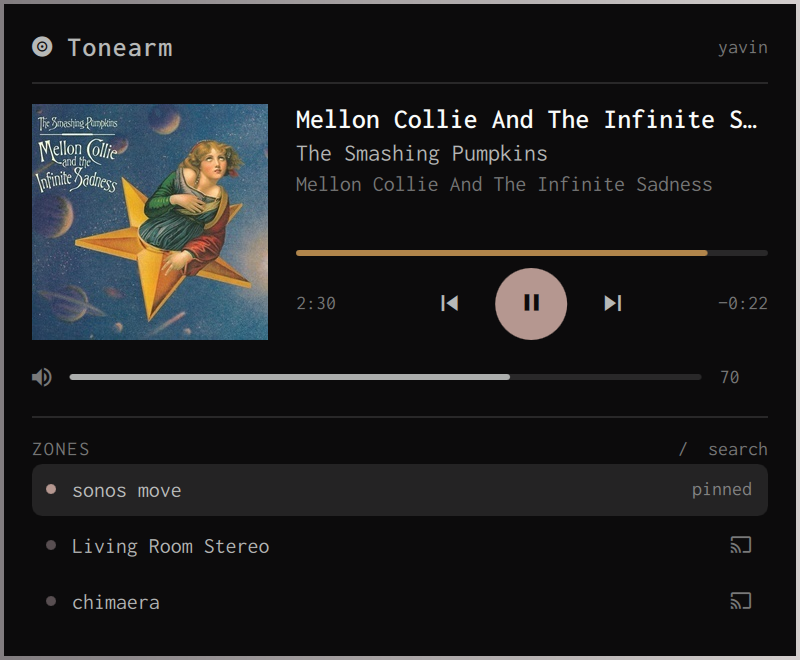
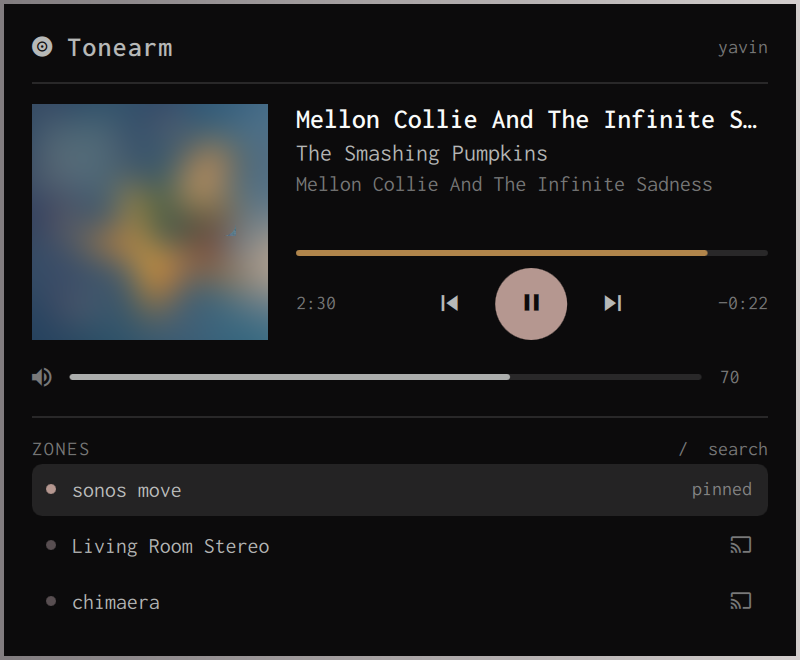
docs: blur the album art in preview.png
Checklist item 3 of the marketplace submission asks specifically about preview
assets, and the frame contained a commercial album sleeve -- with the band name
legible in it. The art region is now blurred past recognition.

This keeps everything the image exists to show: the layout, the metadata, the
transport, the search hint, the transfer icons, and the seek fill. That last
one is why blurring beats the "Nothing playing" state, which was the other
option considered -- the fill takes its colour from the album art, so the
blurred colours still explain where the gold came from, whereas the empty state
would have shown a grey rectangle and a dead transport row.

Track and album titles remain in frame. Those are factual metadata, not a
reproduction of artwork.

Two details worth recording, both found by looking rather than assuming:

- Blurring the region IN PLACE pulls panel background into the box and softens
  its edge. Cropping the region out, blurring it with `-virtual-pixel edge`,
  and compositing it back keeps the edge crisp.
- The composite is masked to a rounded rectangle, because the widget draws the
  art with `radius: Style.space(6)` and a preview should show what the widget
  renders. The radius is subtle enough at this size that the original corner
  reads as square, but it costs one command to be right.

The exact commands are in docs/marketplace-submission.md so a future recapture
can reproduce it. The unblurred original remains in git history at 2351967.
[…]

Changed region(s): [[0.0312, 0.1818, 0.3438, 0.5152], [0.0625, 0.4242, 0.125, 0.4848], [0.125, 0.4848, 0.1562, 0.5152]]

diff --git a/docs/marketplace-submission.md b/docs/marketplace-submission.md
@@ -100,8 +100,11 @@ push.
 - [x] I have documented the plugin license and any external dependencies. —
       `LICENSE` carries a Dependencies section covering the vendored
       Apache-2.0 `roonapi` and the two runtime packages.
-- [ ] I confirm that I own or have permission to submit this plugin and its
-      preview assets. — **see "Open before filing" below.**
+- [x] I confirm that I own or have permission to submit this plugin and its
+      preview assets. — `preview.png` is a screenshot of the running widget on
+      the author's own machine; the album art in frame is blurred past
+      recognition. Track and album titles remain, which are factual metadata
+      rather than a reproduction of artwork.
 - [x] The plugin does not overwrite user configuration without explicit
       consent. — the only file written outside tonearm's own directories is
       `~/.config/systemd/user/tonearmd.service`, created by a setup script the
@@ -120,17 +123,29 @@ For the GitHub repo's description field, which the marketplace links to:
 
 ## Open before filing
 
-1. **`preview.png` shows third-party album artwork.** It is a screenshot of the
-   running widget, so the cover art of a commercial release is in the frame.
-   Checklist item 3 asks about preview assets specifically. Options: leave it
-   (a screenshot of a music player showing a sleeve is ordinary practice),
-   recapture against a release whose art is self-owned or public domain, or
-   capture the "Nothing playing" state, which shows the layout but no art and
-   makes a weaker listing image.
-
-2. **Set the repository description** to the text above. It is currently empty.
+1. **Set the repository description** to the text above. It is currently empty.
 
 ## Closed while drafting
+
+- **`preview.png` contained third-party album artwork.** The art region is now
+  blurred past recognition, which clears checklist item 3 while keeping
+  everything the image exists to show: the layout, the metadata, the transport,
+  the search hint, the transfer icons — and the seek fill, which takes its
+  colour from that art, so the blurred colours still explain where the gold
+  came from. Reproducible:
+
+  ```
+  magick preview.png -crop 236x236+32+104 +repage \
+      -virtual-pixel edge -blur 0x18 art.png
+  magick -size 236x236 xc:black -fill white \
+      -draw "roundrectangle 0,0 235,235 12,12" mask.png
+  magick preview.png art.png mask.png -geometry +32+104 -composite preview.png
+  ```
+
+  Blurring the region in isolation with `-virtual-pixel edge` rather than in
+  place matters: an in-place blur pulls panel background into the box and
+  softens its edge. The mask restores the widget's own corner radius
+  (`Style.space(6)`), so the preview still shows what the widget renders.
 
 - **`setup.sh` copied onto a predictable path unguarded.** `cp` follows a
   symlink at its destination, so a link planted at
